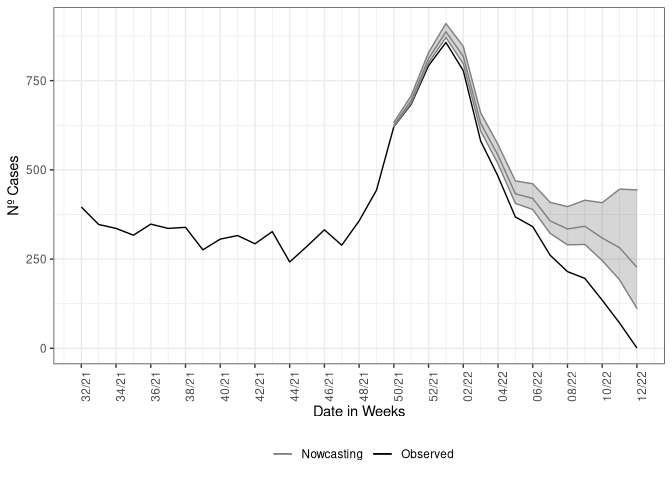
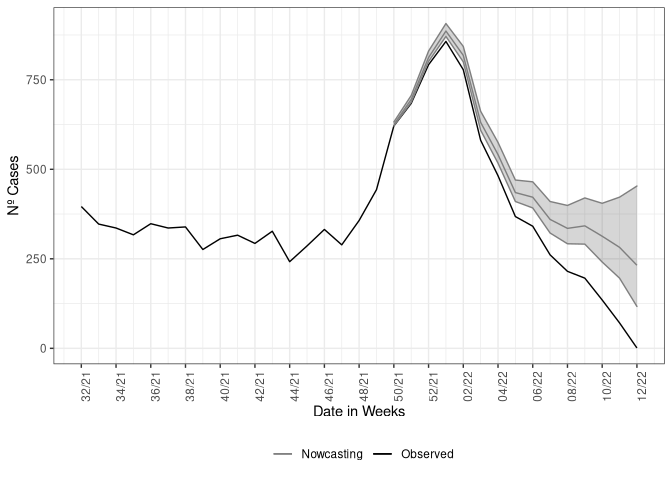
README recompiled3

diff --git a/README.md b/README.md
@@ -32,6 +32,14 @@ To install `nowcaster` package simply run the code below in R:
 devtools::install_github("https://github.com/covid19br/nowcaster")
 ```
 
+    ## 
+    ## * checking for file ‘/tmp/Rtmpcj1Nh2/remotes3c44f8230ba406/covid19br-nowcaster-e3ea8bc/DESCRIPTION’ ... OK
+    ## * preparing ‘nowcaster’:
+    ## * checking DESCRIPTION meta-information ... OK
+    ## * checking for LF line-endings in source and make files and shell scripts
+    ## * checking for empty or unneeded directories
+    ## * building ‘nowcaster_0.1.0.tar.gz’
+
 After installing you can load the by typical library:
 
 ``` r
@@ -78,8 +86,10 @@ at time *t* with delay *d*, *ϕ* is the dispersion parameter. The rate
 *λ*<sub>*t*, *d*</sub> is then parameterized in a log-linear format by a
 constant term added by structured delay random effects and structured
 time random effects. Hence, the model isgiven by the following:
-*Y*<sub>*t*, *d*</sub> ∼ *N**e**g**B**i**n**o**m*(*λ*<sub>*t*, *d*</sub>,*ϕ*),  *t* = 1, 2, …, *T*,  *d* = 1, 2, …, *D*,
-log (*λ*<sub>*t*, *d*</sub>) = *α* + *β*<sub>*t*</sub> + *γ*<sub>*d*</sub>.
+
+$$Y\_{t,d} \\sim  NegBinom(\\lambda\_{t,d}, \\phi), \\quad t=1,2,\\ldots,T, \\quad d=1,2,\\ldots,D, \\\\
+\\log(\\lambda\_{t,d}) =  \\alpha + \\beta_t + \\gamma_d$$
+
 where the intercept *α* follows is Gaussian distribution with a very
 large variance, *β*<sub>*t*</sub> is follows a second order random walk
 with precision *τ*<sub>*β*</sub>, *γ*<sub>*d*</sub> a first-order random
@@ -98,12 +108,12 @@ head(nowcasting_bh_no_age$total)
     ## # A tibble: 6 × 7
     ##    Time dt_event   Median    LI    LS   LIb   LSb
     ##   <int> <date>      <dbl> <dbl> <dbl> <dbl> <dbl>
-    ## 1    17 2021-12-13    625   621   632   623   627
-    ## 2    18 2021-12-20    694   688   708   691   698
-    ## 3    19 2021-12-27    811   801   828   807   816
-    ## 4    20 2022-01-03    886   871   908   880   893
-    ## 5    21 2022-01-10    818   800   847   811   827
-    ## 6    22 2022-01-17    631   610   660   623   640
+    ## 1    17 2021-12-13    625  621    632  623    627
+    ## 2    18 2021-12-20    695  688    707  692    699
+    ## 3    19 2021-12-27    812  801.   829  807    817
+    ## 4    20 2022-01-03    886  872    909  881.   893
+    ## 5    21 2022-01-10    817  799    844  811.   826
+    ## 6    22 2022-01-17    631  610    661  623    640
 
 This calling will return only the nowcasting estimate and its Confidence
 Interval (CI) for two different Credible interval, `LIb` and `LSb` are
@@ -167,8 +177,9 @@ effects to the delay distribution and and time distribution by each of
 the age-class chosen by the user to break the data. The model has the
 form now:
 
-$$Y\_{t,d,a} \\sim  NegBinom(\\lambda\_{t,d,a}, \\phi), \\quad t=1,2,\\ldots,T, \\quad d=1,2,\\ldots,D, $a=1,2,\\ldots,A$$
-log (*λ*<sub>*t*, *d*, *a*</sub>) = *α*<sub>*a*</sub> + *β*<sub>*t*, *a*</sub> + *γ*<sub>*d*, *a*</sub>.
+$$Y\_{t,d,a} \\sim  NegBinom(\\lambda\_{t,d,a}, \\phi), \\quad t=1,2,\\ldots,T, \\quad d=1,2,\\ldots,D, a=1,2,\\ldots,A \\\\
+\\log(\\lambda\_{t,d,a}) =  \\alpha_a + \\beta\_{t,a} + \\gamma\_{d,a}$$
+
 where each age class, *a*, has an intercept *α*<sub>*a*</sub> following
 a Gaussian distribution with a very large variance, the time-age random
 effects, *β*<sub>*t*, *a*</sub>, follow a joint multivariate Gaussian
